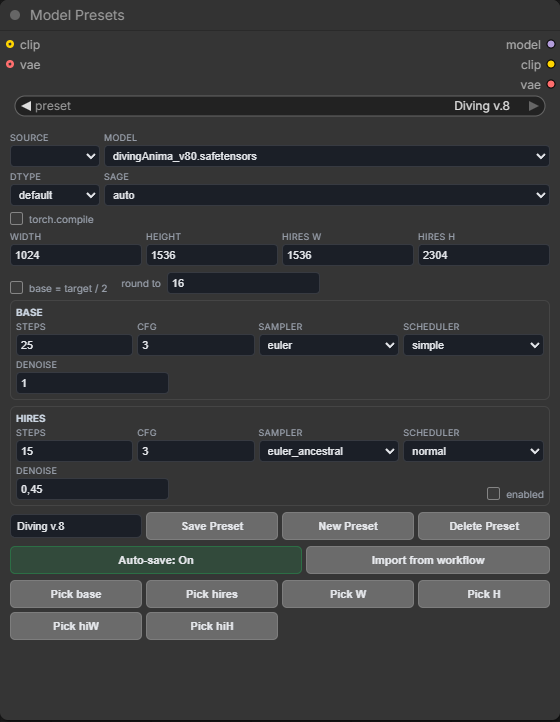
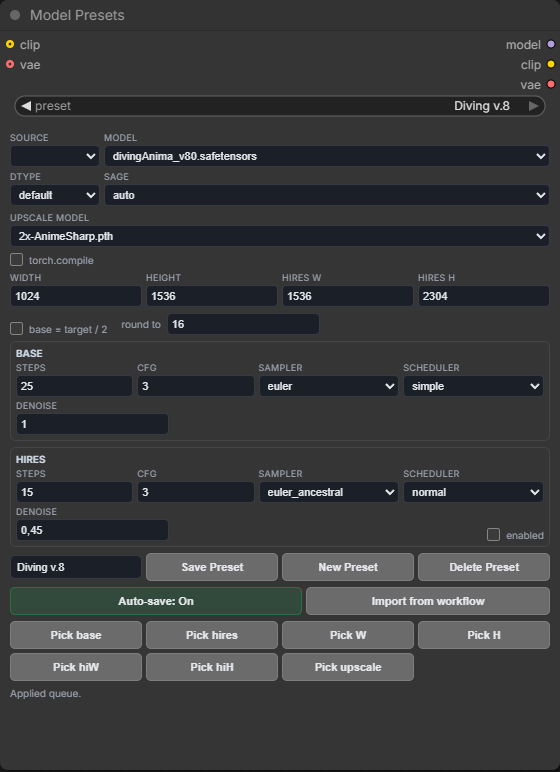
Add per-preset upscale model selection

diff --git a/web/model_presets.js b/web/model_presets.js
@@ -22,6 +22,7 @@ const DEFAULT_PRESET = {
   weight_dtype: "default",
   sage_attention: "auto",
   torch_compile: false,
+  upscale_model: "",
   width: 1024,
   height: 1536,
   divide: false,
@@ -274,6 +275,7 @@ app.registerExtension({
           models: [],
           checkpoints: [],
           vaes: [],
+          upscale_models: [],
           samplers: ["euler", "euler_ancestral", "dpmpp_2m"],
           schedulers: ["normal", "simple", "karras"],
           sage_modes: ["auto", "disabled"],
@@ -300,6 +302,7 @@ app.registerExtension({
       const dtypeSelect = selectInput();
       const sageSelect = selectInput();
       const compileCheckbox = checkboxInput();
+      const upscaleSelect = selectInput();
 
       const rowLoader = make("div", "display:grid;grid-template-columns:90px 1fr;gap:4px;");
       rowLoader.append(
@@ -308,6 +311,9 @@ app.registerExtension({
         labelled("dtype", dtypeSelect),
         labelled("sage", sageSelect)
       );
+
+      const rowUpscale = make("div", "display:flex;flex-direction:column;gap:2px;");
+      rowUpscale.append(labelled("upscale model", upscaleSelect));
 
       const compileWrap = make("label", "display:flex;align-items:center;gap:6px;font-size:10px;color:#9ca3af;");
       compileWrap.append(compileCheckbox, document.createTextNode("torch.compile"));
@@ -418,6 +424,10 @@ app.registerExtension({
           if (!findWidget(target, ["steps"]) || !findWidget(target, ["cfg"])) {
             return "That node has no steps/cfg widgets: pick a KSampler.";
           }
+        } else if (role === "upscale") {
+          if (!findWidget(target, ["model_name"])) {
+            return "That node has no model_name widget: pick an UpscaleModelLoader.";
+          }
         } else if (!findWidget(target, ["width", "height", "value"])) {
           return "That node has no width/height/value widget.";
         }
@@ -470,7 +480,7 @@ app.registerExtension({
         if (!bindTarget(role, target)) {
           // Keep pick mode armed so the next click can fix the mistake.
           pendingPick = { role, button, label };
-          button.textContent = "click a node…";
+          button.textContent = "click a node...";
         }
       }
 
@@ -482,7 +492,7 @@ app.registerExtension({
         }
         if (pendingPick) pendingPick.button.textContent = pendingPick.label;
         pendingPick = { role, button, label: button.textContent };
-        button.textContent = "click a node…";
+        button.textContent = "click a node...";
         setStatus("Pick mode: click the target node. A subgraph instance opens itself for sampler roles.");
       }
 
@@ -493,7 +503,8 @@ app.registerExtension({
         pickButton("width", "Pick W"),
         pickButton("height", "Pick H"),
         pickButton("hiresWidth", "Pick hiW"),
-        pickButton("hiresHeight", "Pick hiH")
+        pickButton("hiresHeight", "Pick hiH"),
+        pickButton("upscale", "Pick upscale")
       );
 
       // ---- main buttons ----
@@ -516,6 +527,7 @@ app.registerExtension({
 
       container.append(
         rowLoader,
+        rowUpscale,
         compileWrap,
         rowSize,
         rowSizeOptions,
@@ -564,6 +576,20 @@ app.registerExtension({
         setSelectOptions(modelSelect, values, modelSelect.value);
       }
 
+      function setUpscaleOptions(current) {
+        const values = ["", ...(state.options.upscale_models || [])];
+        if (current && !values.includes(current)) values.push(current);
+        upscaleSelect.replaceChildren(
+          ...values.map((value) => {
+            const option = document.createElement("option");
+            option.value = value;
+            option.textContent = value || "(leave unchanged)";
+            return option;
+          })
+        );
+        upscaleSelect.value = current || "";
+      }
+
       function fillPanel(preset) {
         state.isLoading = true;
         try {
@@ -572,6 +598,7 @@ app.registerExtension({
           setSelectOptions(modelSelect, sourceValues, preset.model ?? "");
           setSelectOptions(dtypeSelect, state.options.weight_dtypes, preset.weight_dtype ?? "default");
           setSelectOptions(sageSelect, state.options.sage_modes, preset.sage_attention ?? "auto");
+          setUpscaleOptions(preset.upscale_model ?? "");
           compileCheckbox.checked = Boolean(preset.torch_compile);
           widthInput.value = preset.width ?? 1024;
           heightInput.value = preset.height ?? 1536;
@@ -604,6 +631,7 @@ app.registerExtension({
           weight_dtype: dtypeSelect.value,
           sage_attention: sageSelect.value,
           torch_compile: compileCheckbox.checked,
+          upscale_model: upscaleSelect.value,
           width: parseInt(widthInput.value, 10) || 1024,
           height: parseInt(heightInput.value, 10) || 1536,
           divide: divideCheckbox.checked,
@@ -643,14 +671,15 @@ app.registerExtension({
           if (!ref) return `${label}: not set`;
           if (!target) {
             lost = true;
-            return `${label}: missing (${String(ref.graphId).slice(0, 8)}вЂ¦ #${ref.nodeId})`;
+            return `${label}: missing (${String(ref.graphId).slice(0, 8)}... #${ref.nodeId})`;
           }
           return `${label}: ${nodeLabel(target)} [${graphLabel(target.graph)}]`;
         };
         lines.push(describe("base", "base"));
         lines.push(describe("hires", "hires"));
-        lines.push([describe("width", "W"), describe("height", "H")].join(" В· "));
-        lines.push([describe("hiresWidth", "hiW"), describe("hiresHeight", "hiH")].join(" В· "));
+        lines.push([describe("width", "W"), describe("height", "H")].join("  /  "));
+        lines.push([describe("hiresWidth", "hiW"), describe("hiresHeight", "hiH")].join("  /  "));
+        lines.push(describe("upscale", "upscale"));
         setStatus(lines.join("\n"), lost ? "error" : "info");
       }
 
@@ -673,6 +702,10 @@ app.registerExtension({
         if (preset.hires?.enabled && hiresW) sizedHiresWidth = applySize(targets.hiresWidth, hiresW, "width");
         if (preset.hires?.enabled && hiresH) sizedHiresHeight = applySize(targets.hiresHeight, hiresH, "height");
 
+        const upscaleRequested = Boolean(preset.upscale_model);
+        const upscaleNode = findNodeRef(targets.upscale);
+        const upscaleOk = !upscaleRequested || setWidget(upscaleNode, ["model_name"], preset.upscale_model);
+
         const missing = [];
         if (!sampledBase) missing.push("base sampler");
         if (!sizedWidth) missing.push("width target");
@@ -680,6 +713,7 @@ app.registerExtension({
         if (preset.hires?.enabled && !sampledHires) missing.push("hires sampler");
         if (preset.hires?.enabled && hiresW && !sizedHiresWidth) missing.push("hires width");
         if (preset.hires?.enabled && hiresH && !sizedHiresHeight) missing.push("hires height");
+        if (upscaleRequested && !upscaleOk) missing.push("upscale model target");
         if (!silent) {
           refreshTargets();
           if (missing.length) {
@@ -765,7 +799,7 @@ app.registerExtension({
 
       function bindInputs() {
         const inputs = [
-          modelSelect, dtypeSelect, sageSelect, widthInput, heightInput, roundInput,
+          modelSelect, dtypeSelect, sageSelect, upscaleSelect, widthInput, heightInput, roundInput,
           hiresWidthInput, hiresHeightInput,
           baseRow.steps, baseRow.cfg, baseRow.sampler, baseRow.scheduler, baseRow.denoise,
           hiresRow.steps, hiresRow.cfg, hiresRow.sampler, hiresRow.scheduler, hiresRow.denoise,
@@ -916,6 +950,10 @@ app.registerExtension({
       async function importFromWorkflow() {
         const imported = {};
         const graphs = allGraphs();
+        const upscaleLoaders = graphs.flatMap((graph) => (graph._nodes ?? []).filter((n) => n.type === "UpscaleModelLoader"));
+        const singleUpscale = upscaleLoaders.length === 1
+          ? String(findWidget(upscaleLoaders[0], ["model_name"])?.value ?? "")
+          : "";
         for (const graph of graphs) {
           for (const loader of (graph._nodes ?? []).filter(isLoader)) {
             const model = loaderModelName(loader);
@@ -953,6 +991,7 @@ app.registerExtension({
               torch_compile: Boolean(findWidget(loader, ["torch_compile"])?.value ?? false),
               base: read(base, DEFAULT_PRESET.base),
               hires: { enabled: Boolean(hires), ...read(hires, DEFAULT_PRESET.hires) },
+              upscale_model: singleUpscale,
             };
           }
         }

diff --git a/model_presets_node.py b/model_presets_node.py
@@ -277,6 +277,7 @@ if _prompt_server is not None:
             "models": list_files("diffusion_models"),
             "checkpoints": list_files("checkpoints"),
             "vaes": list_files("vae"),
+            "upscale_models": list_files("upscale_models"),
             "samplers": list(comfy.samplers.KSampler.SAMPLERS),
             "schedulers": list(comfy.samplers.KSampler.SCHEDULERS),
             "sage_modes": sage_modes(),

diff --git a/README.md b/README.md
@@ -24,6 +24,9 @@ Built for Anima workflows, but not tied to Anima: any model from
 - **Import from workflow**: scans the open workflow (including subgraph
   definitions) for model loaders and `KSampler` pairs and creates presets from
   them.
+- **Upscale model per preset** (optional): writes the file name into an
+  `UpscaleModelLoader`, so `2x-AnimeSharp` / `2x-AnimeMoSR` can follow the
+  checkpoint. Leave the field empty to keep whatever the graph has now.
 - **Auto-save**: panel edits are written to JSON and applied to the targets
   after a short pause and again right before the prompt is queued.
 
@@ -83,7 +86,7 @@ The panel edits settings, but a `KSampler` widget cannot be driven by a link
 (`sampler_name` and `scheduler` are combo widgets), so the frontend writes the
 values into real nodes. Bind them once per workflow:
 
-1. Press `Pick base` (or `Pick hires`, `Pick W`, `Pick H`, `Pick hiW`, `Pick hiH`).
+1. Press `Pick base` (or `Pick hires`, `Pick W`, `Pick H`, `Pick hiW`, `Pick hiH`, `Pick upscale`).
 2. Click the target node on the canvas, even if it lives in another subgraph.
 3. Press the same button again to cancel pick mode.
 
@@ -101,6 +104,7 @@ the node that holds the number instead (`PrimitiveInt`, subgraph input).
     "weight_dtype": "default",
     "sage_attention": "auto",
     "torch_compile": false,
+    "upscale_model": "2x-AnimeSharp.pth",
     "width": 1200,
     "height": 1800,
     "divide": true,
@@ -119,6 +123,10 @@ greater than 1).
 
 The file is stored next to the node and is **not** committed to this repository:
 it is user data. Start from `model_presets.example.json`.
+
+`upscale_model` is for real upscale models used by `UpscaleModelLoader`
+(`2x-AnimeSharp`, `2x-AnimeMoSR`, ...). Post-processing nodes such as NAFNet are
+not a per-preset choice: leave the field empty and keep them wired as usual.
 
 ## Notes and limitations
 
